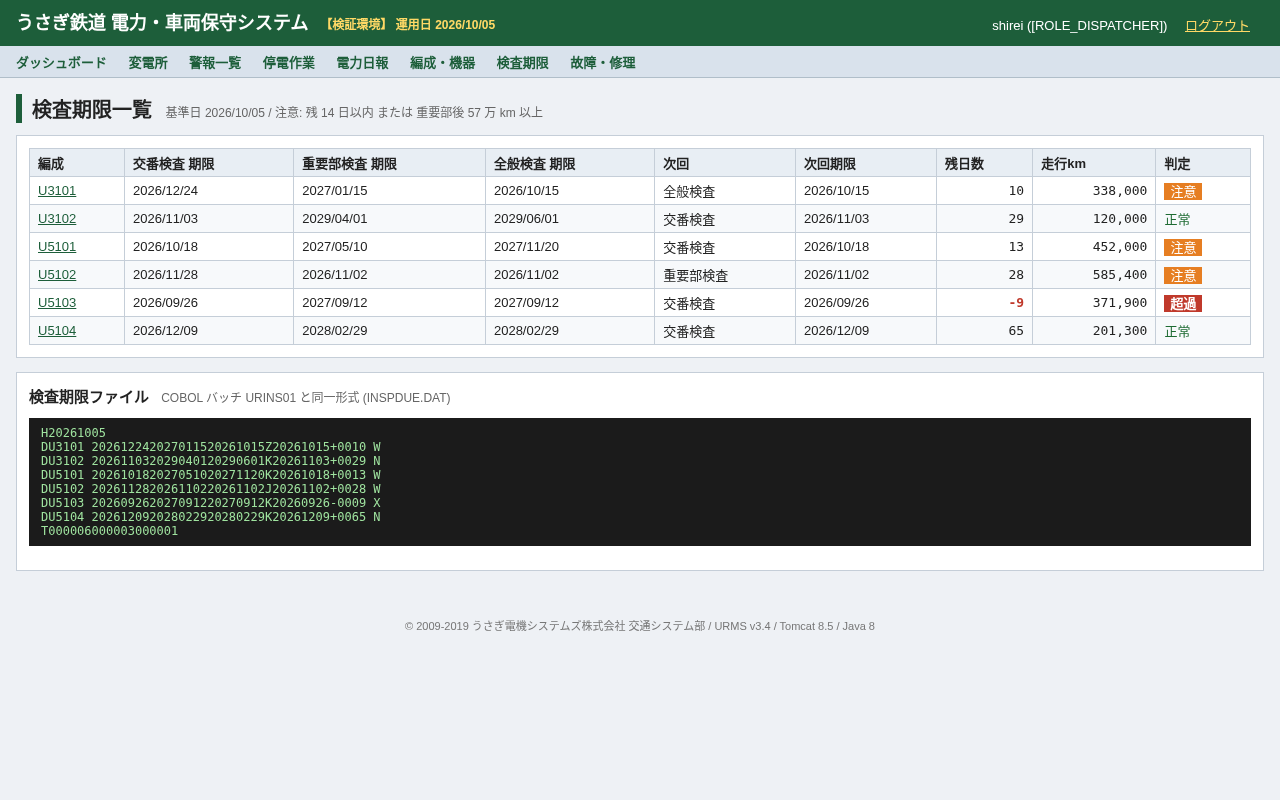
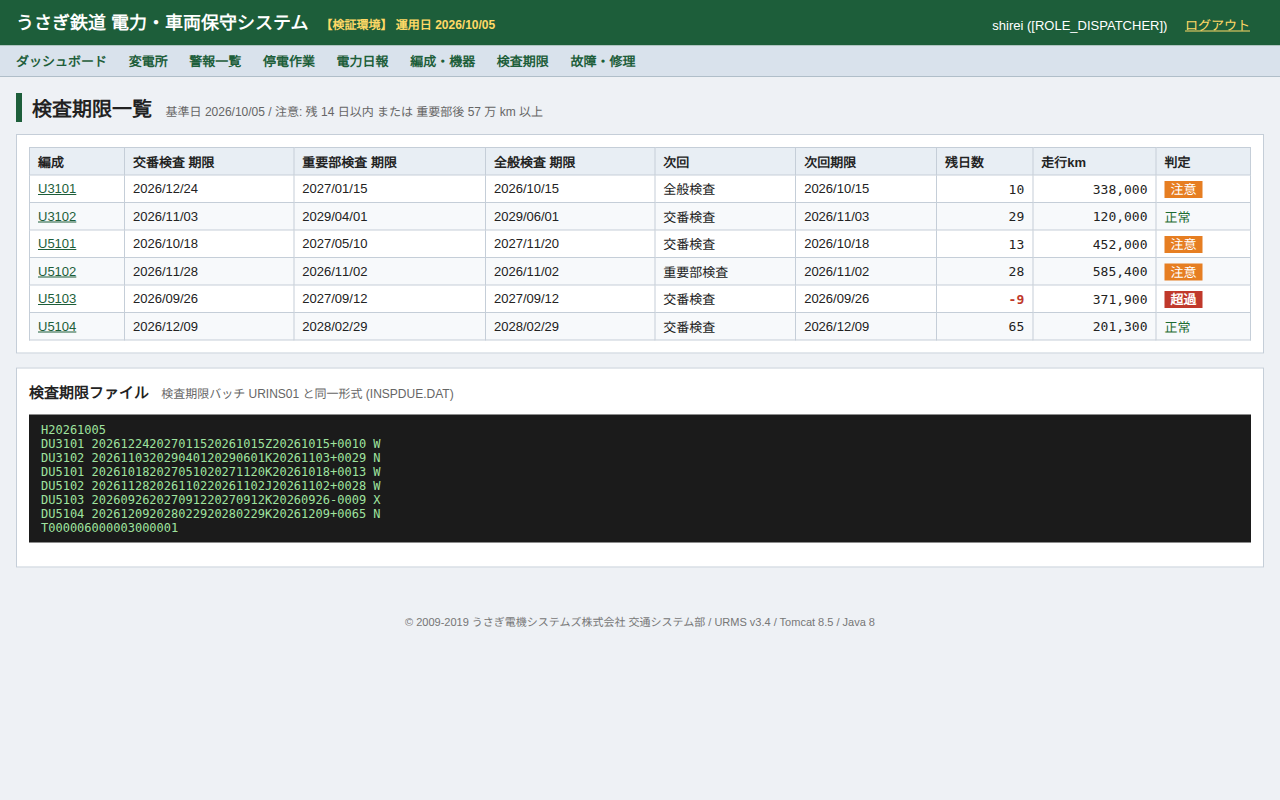
ドキュメント・画面表記を Java 版 URINS01 前提に更新 (UNT3-10 / s5.3)

diff --git a/README.md b/README.md
@@ -1,8 +1,8 @@
 # うさぎ鉄道 電力・車両保守システム (URMS)
 
-**うさぎ鉄道 (架空の鉄道事業者) の電力管理・車両保守システムです。** 電力指令所と検修庫で使う社内 Web アプリで、変電所・き電区分所の遮断器状態と計測値の監視、警報の確認、停電作業 (き電停止) の申請から承認・復電までを扱います。車両側では編成・車両・搭載機器を製造番号で管理し、故障記録、メーカーへの修理依頼と進捗、交番・重要部・全般検査の期限を管理します。夜間バッチは C (電力日報) と COBOL (検査期限) で書かれています。
+**うさぎ鉄道 (架空の鉄道事業者) の電力管理・車両保守システムです。** 電力指令所と検修庫で使う社内 Web アプリで、変電所・き電区分所の遮断器状態と計測値の監視、警報の確認、停電作業 (き電停止) の申請から承認・復電までを扱います。車両側では編成・車両・搭載機器を製造番号で管理し、故障記録、メーカーへの修理依頼と進捗、交番・重要部・全般検査の期限を管理します。夜間バッチは C (電力日報) と Java (検査期限) で書かれています。
 
-移行・モダナイゼーションのデモ対象として、あえて*レガシー*な構成にしています: **Spring Boot 1.5.22 / Java 8 / JSP + jQuery 1.12 / JUnit 4 / H2 上の Oracle 方言 SQL / Flyway 4 / Ehcache 2 / Joda-Time / C (gcc) と GnuCOBOL の夜間バッチ / Jenkinsfile (WebSphere デプロイ)**。
+移行・モダナイゼーションのデモ対象として、あえて*レガシー*な構成にしています: **Spring Boot 1.5.22 / Java 8 / JSP + jQuery 1.12 / JUnit 4 / H2 上の Oracle 方言 SQL / Flyway 4 / Ehcache 2 / Joda-Time / C (gcc) の夜間バッチ / Jenkinsfile (WebSphere デプロイ)**。
 
 > 架空のシステムです。三菱電機を含む実在企業のシステムやデータを再現したものではありません。
 
@@ -12,7 +12,7 @@
 |---|---|---|
 | ![ダッシュボード](docs/images/dashboard.png) | ![変電所](docs/images/substation-detail.png) | ![警報一覧](docs/images/alarms.png) |
 
-| 電力日報 (C バッチと同一形式) | 検査期限 (COBOL バッチと同一形式) | 編成 (休車・検査超過) |
+| 電力日報 (C バッチと同一形式) | 検査期限 (検査期限バッチと同一形式) | 編成 (休車・検査超過) |
 |---|---|---|
 | ![電力日報](docs/images/daily-report.png) | ![検査期限](docs/images/inspections.png) | ![編成](docs/images/formation-detail.png) |
 
@@ -32,13 +32,13 @@
 | | 計測伝文受信 | `POST /api/telemetry` (RTU, 固定長 H/D/T, トレーラ件数照合, 閾値判定で警報発生) |
 | 車両保守 | 編成・機器 | 編成・車両・搭載機器 (VVVF, SIV, 主電動機, ブレーキ制御, 空調…), 製造番号でのライフサイクル追跡, 予備品 |
 | | 故障・修理 | 故障登録 (製造番号から搭載位置を自動特定, 重要度 A は自動で休車), 調査, メーカー修理依頼, メーカーによる進捗更新, 完了 |
-| | 検査期限 | 交番 (90 日), 重要部 (4 年 or 60 万 km), 全般 (8 年). 残 14 日以内 / 57 万 km 以上で注意. COBOL バッチ `URINS01` と同一形式の `INSPDUE.DAT` |
+| | 検査期限 | 交番 (90 日), 重要部 (4 年 or 60 万 km), 全般 (8 年). 残 14 日以内 / 57 万 km 以上で注意. 検査期限バッチ `URINS01` (`batch/java/`) と同一形式の `INSPDUE.DAT` |
 
 REST API (`/urms/api/**`, HTTP Basic): `GET /api/substations`, `GET /api/substations/{code}`, `GET /api/alarms?unacked=true`, `POST /api/telemetry`, `GET /api/formations`, `GET /api/formations/{no}`, `GET /api/equipment/{serial}`, `GET|POST /api/failures`。管理者のみ: `GET /api/batch/daily-report?date=yyyyMMdd`, `GET /api/batch/formations-file`, `GET /api/batch/inspection-due`。
 
 ## 起動方法
 
-必要なもの: JDK 8、Maven 3.x (バッチを動かす場合は gcc と GnuCOBOL `cobc`)。
+必要なもの: JDK 8、Maven 3.x (C バッチを動かす場合は gcc)。
 
 ```bash
 JAVA_HOME=/usr/lib/jvm/java-8-openjdk-amd64 mvn spring-boot:run
@@ -67,16 +67,17 @@ curl -u admin:admin123 "http://localhost:8080/urms/api/batch/daily-report?date=2
 ## テスト
 
 ```bash
-JAVA_HOME=/usr/lib/jvm/java-8-openjdk-amd64 mvn test   # 33 件 (JUnit 4, SpringRunner, H2 Oracle モード)
+JAVA_HOME=/usr/lib/jvm/java-8-openjdk-amd64 mvn test   # 66 件 (JUnit 4, SpringRunner, H2 Oracle モード)
 batch/c/run.sh                                           # URPWD01 をビルド・実行し expected/DAILY_20261005.DAT と比較
-batch/cobol/run.sh                                       # URINS01 をビルド・実行し expected/INSPDUE.DAT と比較
 batch/java/run.sh                                        # URINS01 Java 版を WAR から起動し expected/INSPDUE.DAT と比較
 ```
 
 | テスト | 検証内容 |
 |---|---|
 | `CBatchParityTest` | Java の電力日報集計と C `URPWD01` の出力が 1 バイト単位で一致すること |
-| `CobolParityTest` | Java の検査期限算出と COBOL `URINS01` の出力が 1 バイト単位で一致すること |
+| `CobolParityTest` | Java の検査期限算出と旧 COBOL 版 `URINS01` の出力 (`golden/INSPDUE_COBOL.DAT`) が 1 バイト単位で一致すること |
+| `Urins01BatchTest` | Java 版 `URINS01` (`Urins01Batch`) のファイル入出力, RC (0/4/8/12), コンソールメッセージ |
+| `Urins01BoundaryParityTest` | 境界値 19 ケース (`golden/boundary/`) で Java 版 `URINS01` の RC・出力ファイル・標準出力が旧 COBOL 版と一致すること |
 | `InspectionServiceTest` | 検査周期, 注意・超過判定, 走行 km, うるう日 (2100/02/28) |
 | `TelemetryFileTest` | 固定長伝文 (H/D/T) の解析, トレーラ件数照合 |
 | `OutageServiceIT` | 停電作業の状態遷移, 遮断器の切/入, 重複申請, トリップ中の操作禁止 |
@@ -84,7 +85,7 @@ batch/java/run.sh                                        # URINS01 Java 版を W
 | `UrmsApiIT` | API の認証・ロール別認可, 計測伝文の受信と警報発生, エラーコード (`UR-xxxx`) |
 | `WebSecurityIT` | 画面フォーム POST のサーバ側ロール制御 (指令 / 検修 / メーカー), CSRF |
 
-ゴールデンファイル (`src/test/resources/golden/`) は `batch/*/data` と `batch/*/expected` のコピーです。バッチ側を変えたら両方を更新してください。
+ゴールデンファイル (`src/test/resources/golden/`) のうち電力日報は `batch/c/data` と `batch/c/expected` のコピーです。C バッチ側を変えたら両方を更新してください。検査期限 (`FORMATIONS.DAT`, `INSPDUE_COBOL.DAT`, `boundary/`) は退役前の COBOL 版 `URINS01` の出力を記録した移行の契約なので変更しないでください (`batch/java/data`・`batch/java/expected` も同じ内容です)。
 
 ## リポジトリ構成
 
@@ -102,8 +103,7 @@ src/main/java/jp/usagi/railway/
 src/main/resources/db/migration  Flyway 4: V1 スキーマ (Oracle DDL 方言), V2 初期データ
 src/main/webapp/WEB-INF/jsp      JSP/JSTL 画面 (日本語 UI) + jQuery 1.12.4
 batch/c/urpwd01.c                C 電力日報バッチ (2004 年製), data/, expected/, run.sh
-batch/cobol/URINS01.cbl          COBOL 検査期限算出バッチ (1997 年製), data/, expected/, run.sh
-batch/java/run.sh                Java 版 URINS01 起動スクリプト (WAR)
+batch/java/urins01               Java 版 URINS01 検査期限算出バッチの起動ラッパー (WAR 内の Urins01Batch), data/, expected/, run.sh
 demo/reset.sh                    デモ環境リセット
 docs/DEMO.md                     デモ台本
 docs/images/                     README 用スクリーンショット / GIF
@@ -115,7 +115,7 @@ docs/images/                     README 用スクリーンショット / GIF
 |---|---|
 | 1. Spring Boot 1.5 / Java 8 → 3.x / 21 | `javax.*` → `jakarta.*`, `WebSecurityConfigurerAdapter`, `antMatchers`, `findOne`, `new PageRequest`, `org.hibernate.validator.constraints.NotBlank`, Flyway 4 / H2 1.4 / Ehcache 2, `server.context-path` などの旧プロパティ, JUnit 4, Joda-Time |
 | 2. C バッチ → Java | `batch/c/urpwd01.c` ⇔ `DailyReportService`. `CBatchParityTest` が契約 |
-| 3. COBOL バッチ → Java | `batch/cobol/URINS01.cbl` ⇔ `InspectionService`. `CobolParityTest` が契約 |
+| 3. COBOL バッチ → Java (移行済み) | 旧 COBOL 版 `URINS01.cbl` (コミット `745a86d` まで) → `Urins01Batch` + `InspectionService`. 仕様は [docs/batch/URINS01.md](docs/batch/URINS01.md), `CobolParityTest` / `Urins01BoundaryParityTest` が契約 |
 | 4. JSP / jQuery → React / TypeScript | JSP 17 枚. 同じ操作は REST API でも提供済み. jQuery の挙動 (全角正規化, 製造番号照会, 確認ダイアログ, ソート, 自動更新) は `static/js/urms.js` |
 | 5. Oracle → PostgreSQL | `VARCHAR2`, `NUMBER`, シーケンス (`SEQ_*.NEXTVAL`), `ROWNUM` を使ったネイティブ SQL, H2 `MODE=Oracle` |
 | 6. Jenkins → GitHub Actions | `Jenkinsfile` (WebSphere `wsadmin`, Nexus, SonarQube 5.6, バッチ配布) |

diff --git a/.agents/skills/urms-testing/SKILL.md b/.agents/skills/urms-testing/SKILL.md
@@ -1,6 +1,6 @@
 ---
 name: testing-usagi-railway
-description: Run and browser-test the Usagi Railway URMS legacy Java 8 JSP app (power management + rolling-stock maintenance), its C/COBOL batches, seeded state, confirmations and role boundaries.
+description: Run and browser-test the Usagi Railway URMS legacy Java 8 JSP app (power management + rolling-stock maintenance), its C / Java batches, seeded state, confirmations and role boundaries.
 ---
 
 # Environment
@@ -9,7 +9,7 @@ description: Run and browser-test the Usagi Railway URMS legacy Java 8 JSP app (
 - Wait for `Started UsagiRailwayApplication` and use `http://localhost:8080/urms/login`.
 - H2 is in-memory: every restart resets the seed (operation date 2026/10/05, 5 substations, 6 formations, 4 failures, 2 repair orders). `demo/reset.sh` also resets git state and batch work dirs.
 - The app pins JVM / Joda default time zone to Asia/Tokyo in `UsagiRailwayApplication`. If dates are off by one day, that pin was lost.
-- Batches: `batch/c/run.sh` (gcc) and `batch/cobol/run.sh` (cobc). RC=4 is expected for the fixtures (missing telemetry / inspection warnings); RC>=8 is a failure.
+- Batches: `batch/c/run.sh` (URPWD01, gcc) and `batch/java/run.sh` (URINS01, Java; uses the newest `target/usagi-railway*.war` and rebuilds it with Maven if missing or older than `src/main` / `pom.xml`, so set `JAVA_HOME=/usr/lib/jvm/java-8-openjdk-amd64`). Both print `GOLDEN OK` on a match. RC=4 is expected for the fixtures (missing telemetry / inspection warnings); RC>=8 is a failure.
 - Ensure a Japanese font is installed before launching the browser (`fc-list :lang=ja`).
 
 # Devin Secrets Needed
@@ -31,7 +31,7 @@ None. Demo logins (in-memory, public fixtures): `shirei/shirei123` (DISPATCHER),
 - Failure form: the serial number field normalizes full-width input and looks up the mount position via `/api/equipment/{serial}` on change.
 - Assert normalized input and lookup result independently: successful blur normalization alone does not prove that the lookup request used the normalized serial.
 - 警報一覧 auto-reloads every 60 s; finish interactions quickly or reopen the page.
-- 電力日報 and 検査期限 show the same fixed-length file the C / COBOL batch produces; compare with `batch/*/expected/`.
+- 電力日報 and 検査期限 show the same fixed-length file the C URPWD01 / Java URINS01 batch produces; compare with `batch/c/expected/` / `batch/java/expected/`.
 - In a long running instance, record IDs may already exceed the seed's next values. Reuse the IDs actually created by your browser flow rather than restarting solely to recover expected numbering.
 
 # Japanese input and recording
